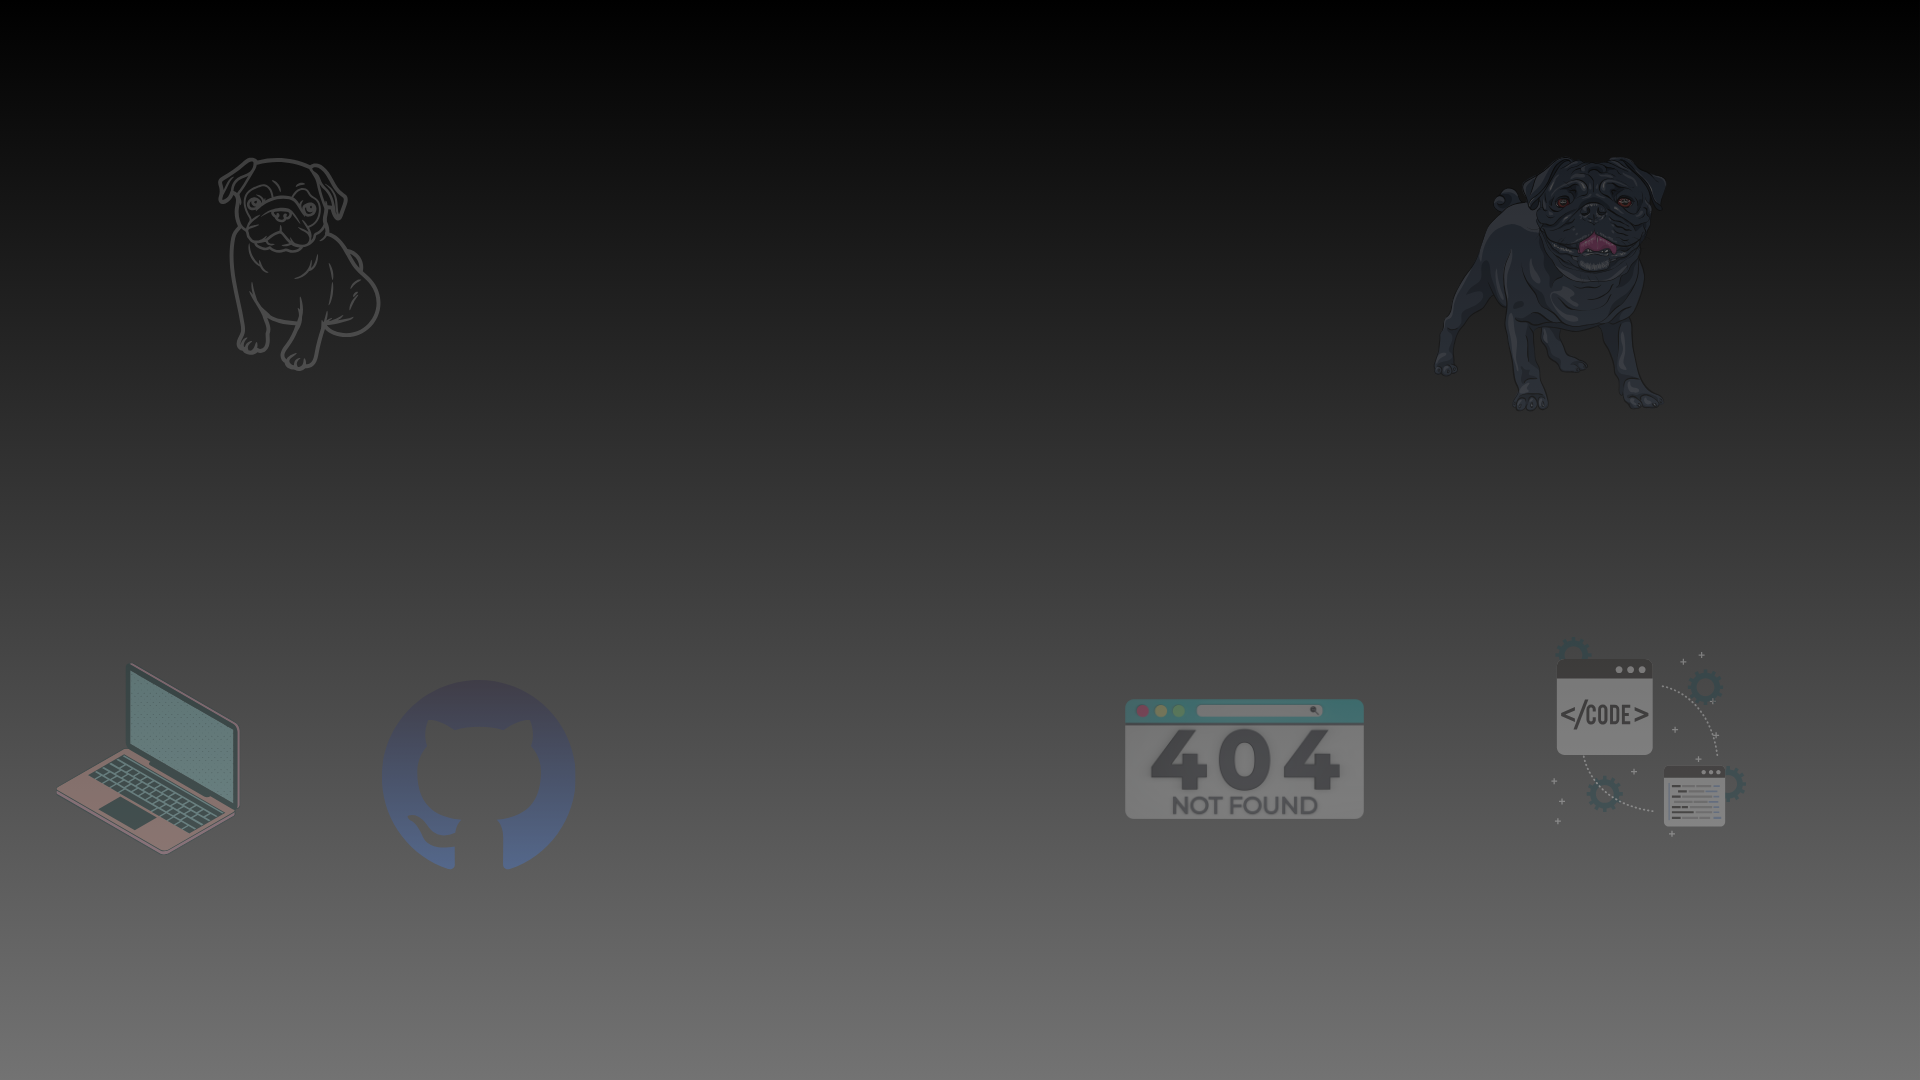
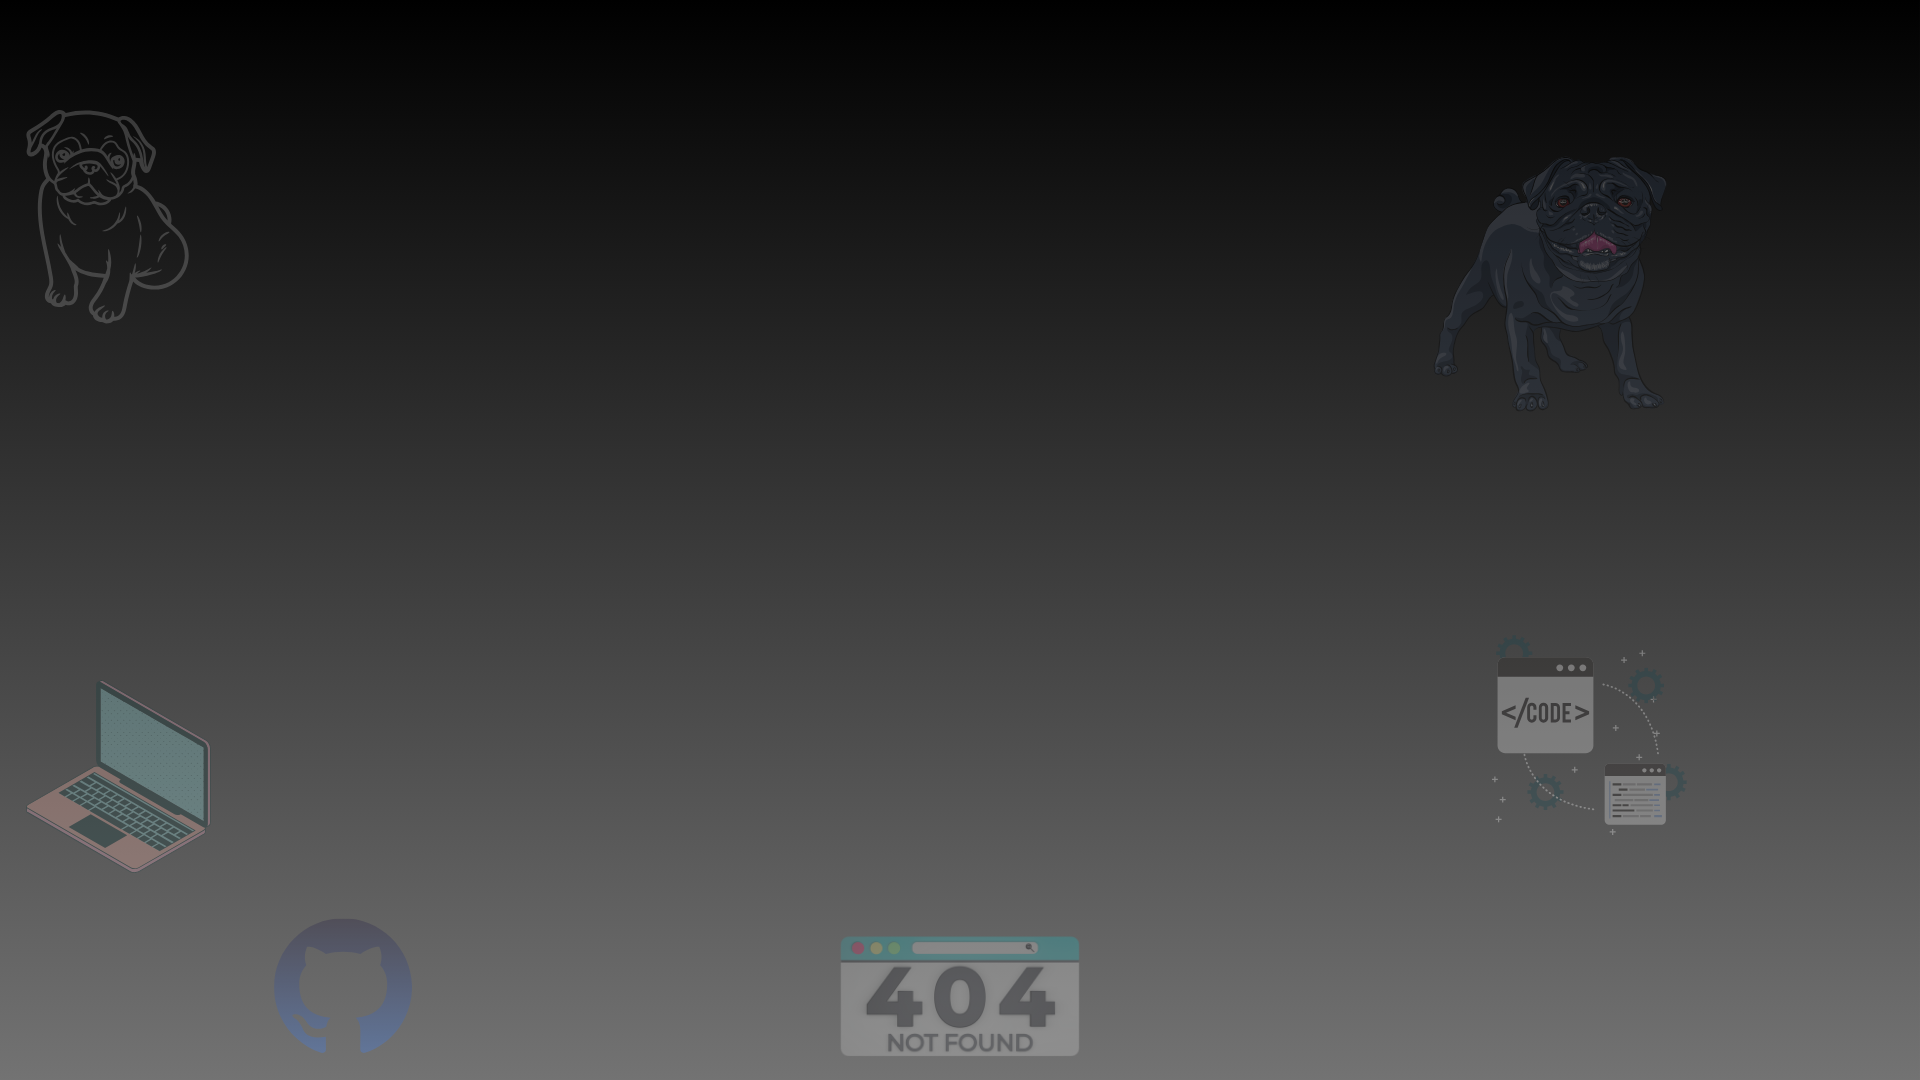
Added to about me description and updated background

diff --git a/src/pages/about/About.jsx b/src/pages/about/About.jsx
@@ -6,23 +6,27 @@ import { Slide } from 'react-awesome-reveal';
 function About() {
     return (
         <Slide direction='right' triggerOnce>
-        <section id='about-me' className='about-me'>
-            <h1 className='text-center'>About Me</h1>
+            <section id='about-me' className='about-me'>
+                <h1 className='text-center'>About Me</h1>
 
-            <Container className='about-me-container'>
-                <div className='about-me'>
-                    <div className='about-me-image'></div>
-                </div>
+                <Container className='about-me-container'>
+                    <div className='about-me'>
+                        <div className='about-me-image'></div>
+                    </div>
 
-                <div className='about-me-content text-center mb-5'>
-                    <p>
-                        I graduated from Cedar Crest College in May 2019 with a Bachelor of Science in Environmental Conservation and a Bachelor of Arts in New Media. In August of 2023, I graduated from a 6-month course through the University of North Carolina at Chapel Hill with a certificate in Full-Stack Development. I am one class away from completing a graduate certificate in Fisheries Management through Oregon State University.
-                        <br/><br/>
-                        I am an organized, hard-working, and dependable individual. I am very passionate about being creative and problem-solving. I enjoy the challenge of learning new programming languages and techniques.
-                    </p>
-                </div>
-            </Container>
-        </section>
+                    <div className='about-me-content text-center mb-5'>
+                        <p>
+                            I'm a dedicated professional with a multifaceted educational journey. In 2019, I earned two degrees at Cedar Crest College, a Bachelor of Science in Environmental Conservation and a Bachelor of Arts in New Media.
+                            <br></br>
+                            Taking my passion for problem-solving and creativity to the next level, I delved into the world of technology. Fast forward to August 2023, I successfully completed a rigorous 6-month Full-Stack Development course at the University of North Carolina, Chapel Hill.
+                            <br></br>
+                            I'm on the verge of earning a graduate certificate in Fisheries Management from Oregon State University, with just one class standing between me and this accomplishment. This unique blend of environmental sciences, technology, and management encapsulates my commitment to holistic problem-solving.
+                            <br></br>
+                            As a professional, I pride myself on being organized, hard-working, and dependable. These qualities have been instrumental not only in my academic pursuits but also in my approach to real-world challenges. I thrive on the thrill of mastering new programming languages and techniques, constantly seeking ways to innovate and elevate my skills.
+                        </p>
+                    </div>
+                </Container>
+            </section>
         </Slide>
     );
 }

diff --git a/src/pages/about/about.css b/src/pages/about/about.css
@@ -5,9 +5,11 @@
 }
 
 #about-me {
-  /* width: 100vw; */
+  width: 100vw;
   min-height: 100vh;
   background-image: url(../../assets/about-background-1440.png);
+  background-repeat: no-repeat;
+  background-size: cover;
 }
 
 #about-me h1 {
@@ -20,8 +22,8 @@
 .about-me-container {
   display: grid;
   grid-template-columns: 50% 50%;
-  gap: 10%;
-  margin-top: 10rem;
+  margin-top: 5rem;
+  padding-bottom: 5rem;
 }
 
 .about-me-image {
@@ -33,11 +35,9 @@
   height: 50rem;
   border-radius: 2rem;
   overflow: hidden;
-  margin-left: 6rem;
 }
 
 .about-me-content {
-  width: 60%;
   font-size: 1.5rem;
   background-color: var(--about-bg);
   padding: .5rem;
